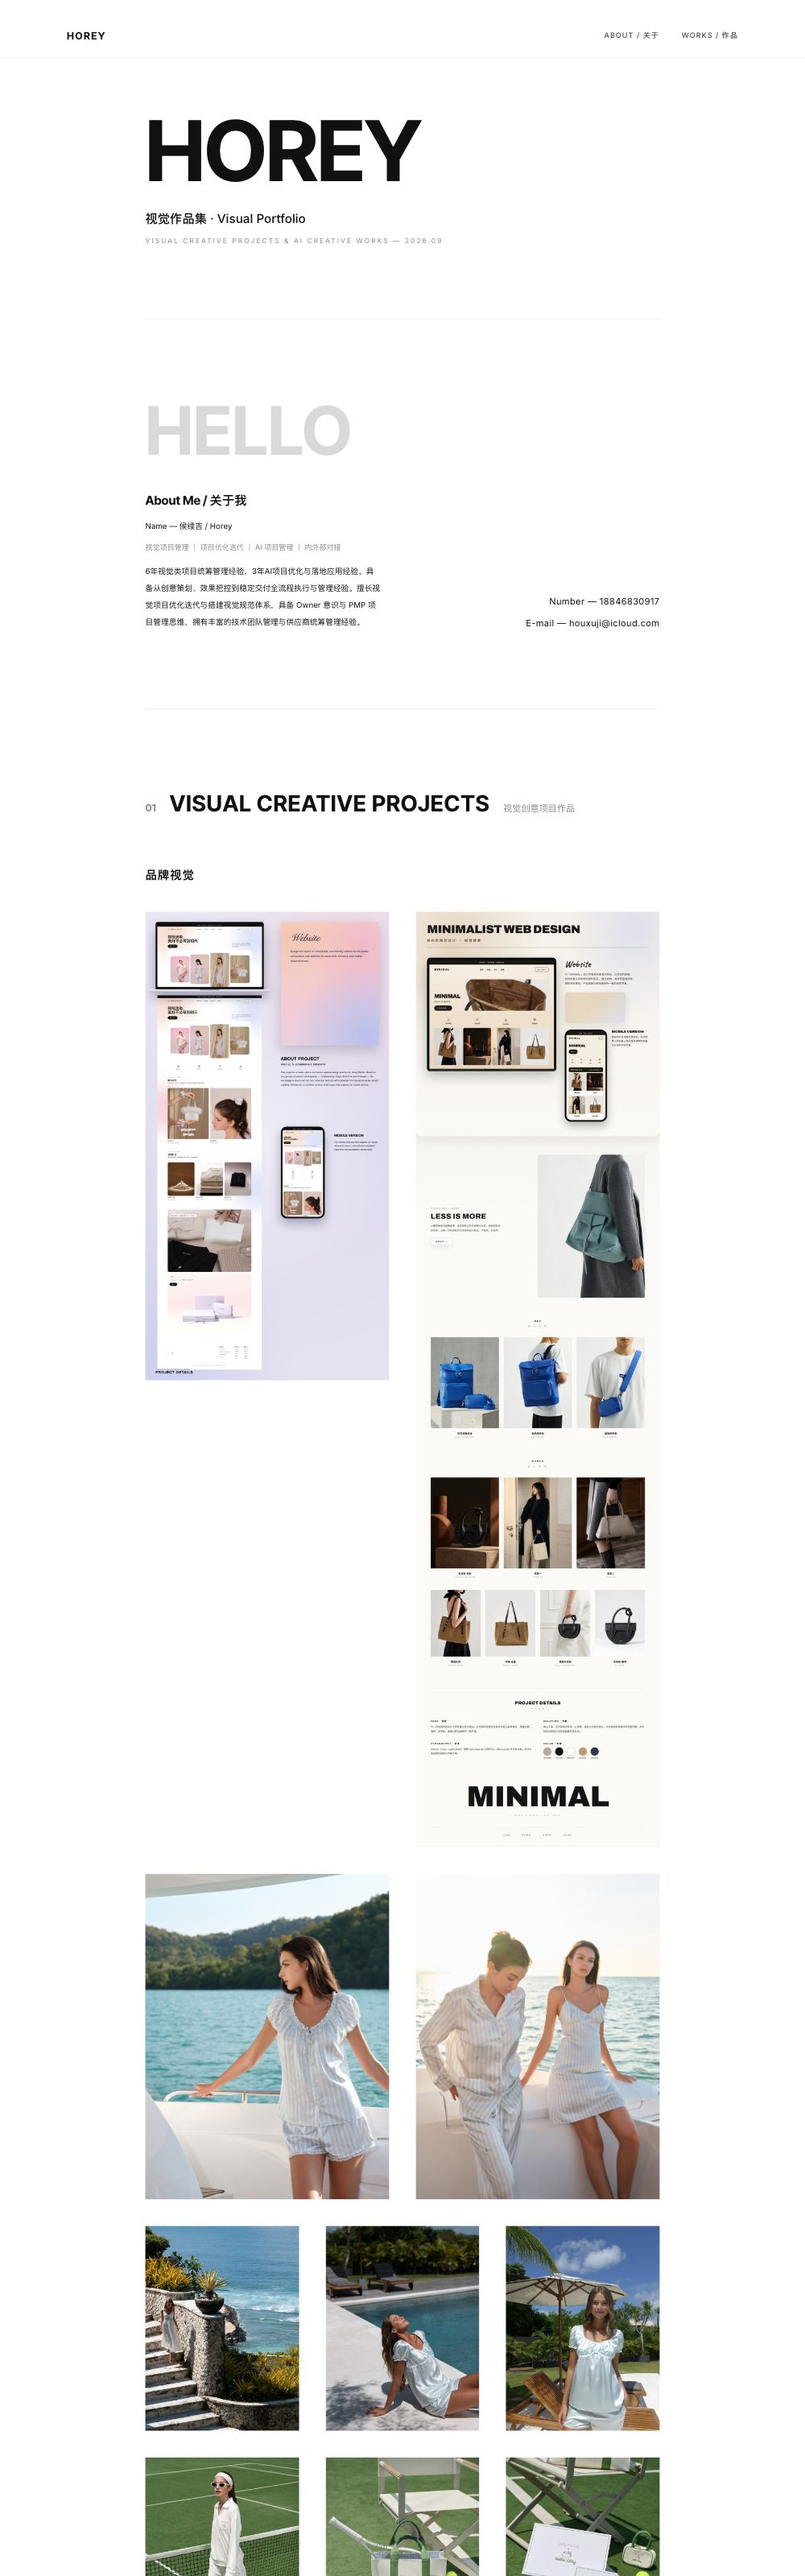
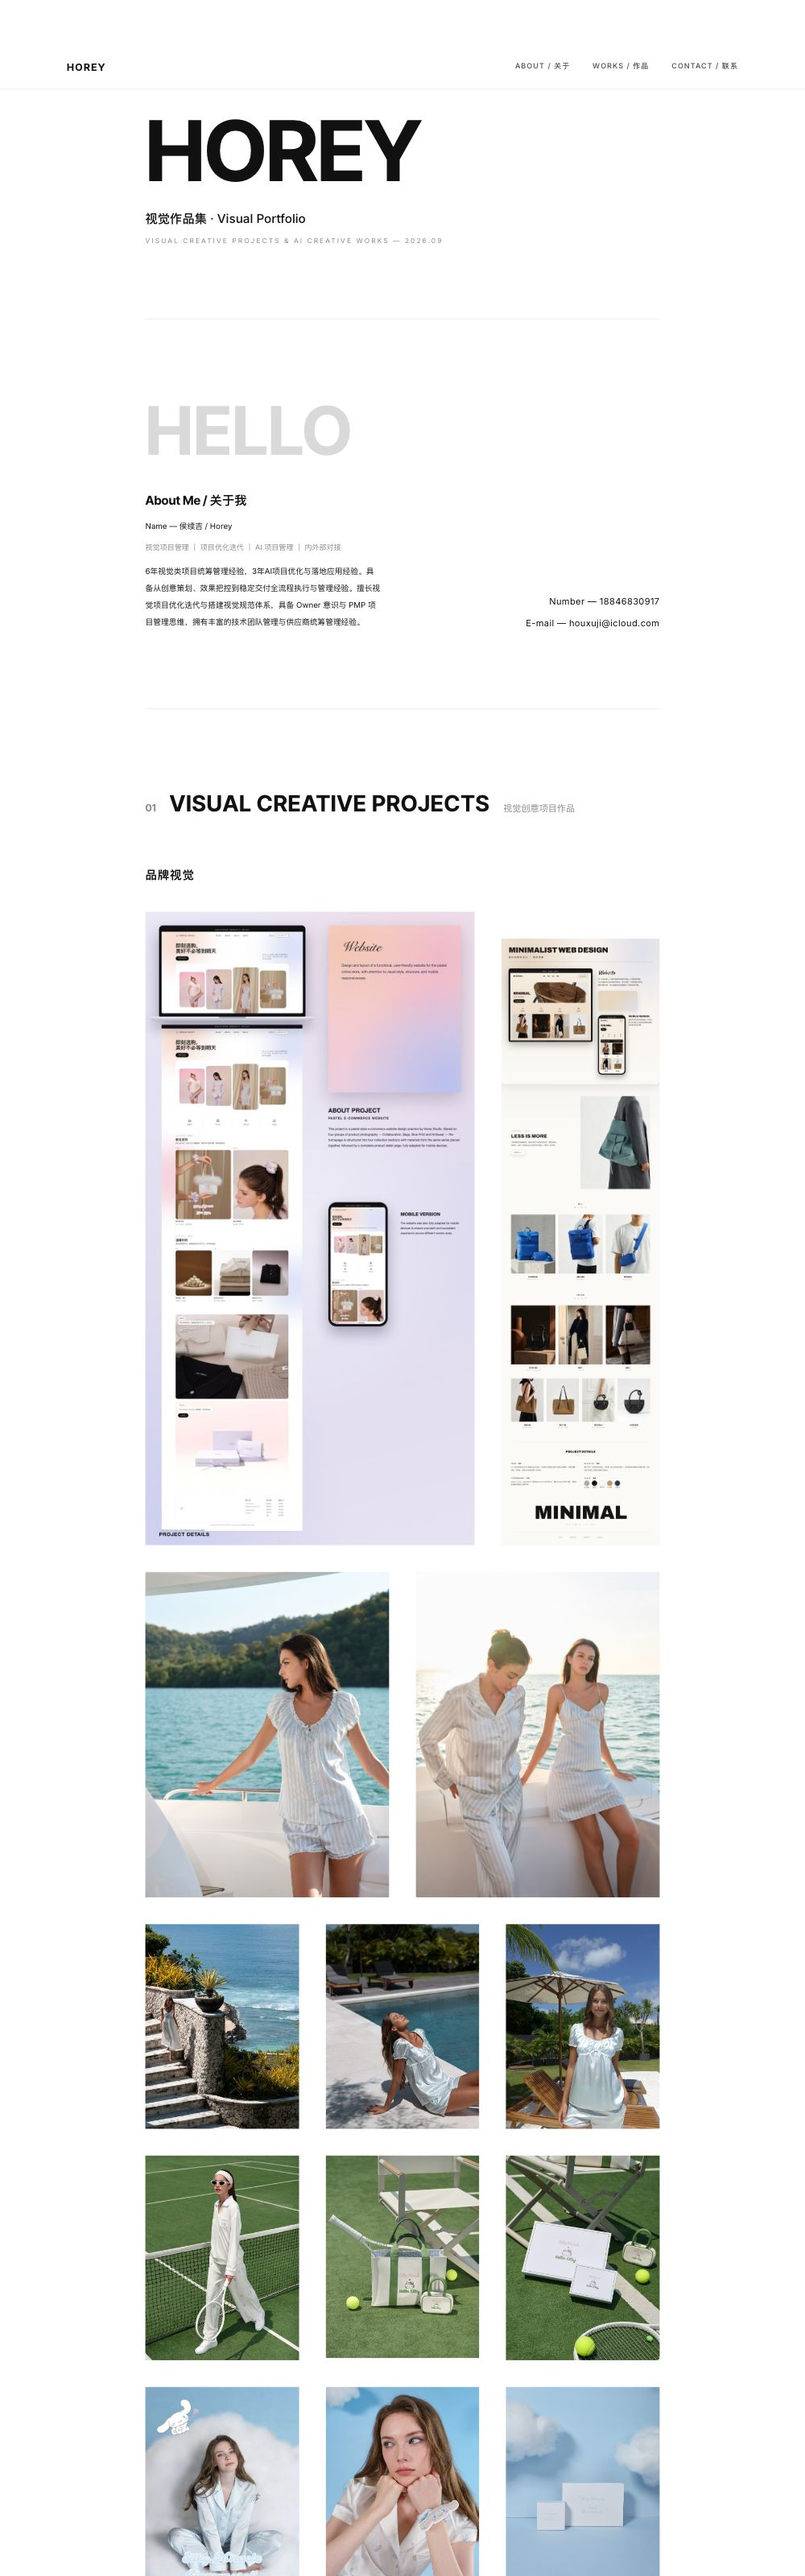
品牌视觉底部对齐/a11左小右大/SILKY移最后/footer重做CONTACT

diff --git a/index.html b/index.html
@@ -55,6 +55,11 @@ a{color:inherit;text-decoration:none}
 .r-center{justify-content:center}
 .r-center .it{flex:0 0 460px;max-width:100%}
 .r-1-1 .it{flex:1 1 calc(50% - var(--row-gap)/2)}
+.r-1-2 .it:first-child{flex:1 1 calc(33.33% - var(--row-gap))}
+.r-1-2 .it:last-child{flex:1 1 calc(66.66% - var(--row-gap))}
+.r-brand{align-items:flex-end}
+.r-brand .it:first-child{flex:1 1 calc(66.66% - var(--row-gap))}
+.r-brand .it:last-child{flex:1 1 calc(33.33% - var(--row-gap))}
 .r-3 .it{flex:1 1 calc(33.33% - var(--row-gap)*2/3)}
 .r-4 .it{flex:1 1 calc(25% - var(--row-gap)*3/4)}
 .cap{font-size:11px;color:var(--grey);letter-spacing:2px;display:flex;justify-content:space-between;gap:16px;margin-top:14px;text-transform:uppercase}
@@ -72,8 +77,14 @@ a{color:inherit;text-decoration:none}
 .body{font-size:16px;line-height:30px}
 .about-r p{font-size:16px;letter-spacing:.5px}
 .sig{font-size:12px;color:var(--grey);letter-spacing:2px}
-.foot{border-top:1px solid var(--line);padding:clamp(40px,5vw,64px) 0;display:flex;justify-content:space-between;gap:16px;flex-wrap:wrap}
-.foot p{font-size:12px;color:var(--grey);letter-spacing:2px}
+.foot{border-top:1px solid var(--line);padding-top:var(--sec-py);padding-bottom:48px;padding-left:0;padding-right:0}
+.foot h2{font-family:var(--display);font-weight:700;font-size:clamp(40px,7vw,64px);letter-spacing:0}
+.foot-row{display:flex;justify-content:flex-start;gap:48px;flex-wrap:wrap;margin-top:48px;font-size:20px;font-weight:500}
+.c-item{display:inline-flex;align-items:center;gap:10px}
+.c-item svg{width:22px;height:22px;stroke:currentColor;fill:none;stroke-width:1.8}
+.c-group{display:inline-flex;gap:48px;flex-wrap:wrap}
+.c-item .note{color:var(--grey);font-size:16px}
+.foot-base{display:flex;justify-content:space-between;gap:24px;flex-wrap:wrap;margin-top:72px;padding-top:20px;border-top:1px solid var(--line);font-size:12px;color:var(--grey);letter-spacing:1px}
 
 @media(max-width:899px){
   :root{--row-gap:14px;--sec-py:56px;--pad-x:clamp(20px,5.5vw,28px)}
@@ -94,6 +105,7 @@ a{color:inherit;text-decoration:none}
     <div class="navlinks">
       <a href="#about">ABOUT / 关于</a>
       <a href="#works">WORKS / 作品</a>
+      <a href="#contact">CONTACT / 联系</a>
     </div>
   </div>
 </nav>
@@ -131,7 +143,7 @@ a{color:inherit;text-decoration:none}
   <div class="rows">
 
     <div class="sub-hd"><span class="cn">品牌视觉</span></div>
-    <div class="row r-1-1">
+    <div class="row r-brand">
       <div class="it"><img src="assets/img/p-1-1.jpg" alt="品牌视觉 01" loading="eager"></div>
       <div class="it"><img src="assets/img/p-2-1.jpg" alt="品牌视觉 02" loading="eager"></div>
     </div>
@@ -232,12 +244,7 @@ a{color:inherit;text-decoration:none}
     </div>
 
     <div class="sub-hd"><span class="cn">过往项目迭代过程展示</span><span class="en">Iteration Process</span></div>
-    <div class="row r-1-1">
-      <div class="it"><img src="assets/img/a-10-1.jpg" alt="AI 创意 10-1" loading="eager"></div>
-      <div class="it"><img src="assets/img/a-10-2.jpg" alt="AI 创意 10-2" loading="eager"></div>
-    </div>
-
-        <div class="row r-1-1">
+        <div class="row r-1-2">
       <div class="it"><img src="assets/img/a-11-1.jpg" alt="AI 创意 11-1" loading="eager"></div>
       <div class="it"><img src="assets/img/a-11-2.jpg" alt="AI 创意 11-2" loading="eager"></div>
     </div>
@@ -247,12 +254,36 @@ a{color:inherit;text-decoration:none}
       <div class="it"><img src="assets/img/a-12-2.jpg" alt="AI 创意 12-2" loading="eager"></div>
     </div>
 
+    <div class="row r-1-1">
+      <div class="it"><img src="assets/img/a-10-1.jpg" alt="AI 创意 10-1" loading="eager"></div>
+      <div class="it"><img src="assets/img/a-10-2.jpg" alt="AI 创意 10-2" loading="eager"></div>
+    </div>
+
   </div>
 </section>
 
-<footer class="foot wrap">
-  <p>© 2026 HOREY</p>
-  <p>CREATED & DESIGNED BY HOREY</p>
+<footer class="foot wrap" id="contact">
+  <h2>CONTACT — 联系</h2>
+  <div class="foot-row">
+    <a class="c-item" href="mailto:houxuji@icloud.com">
+      <svg viewBox="0 0 24 24" aria-hidden="true"><rect x="3" y="5" width="18" height="14" rx="2"/><path d="m3 7 9 6 9-6"/></svg>
+      houxuji@icloud.com
+    </a>
+    <div class="c-group">
+      <a class="c-item" href="tel:18846830917">
+        <svg viewBox="0 0 24 24" aria-hidden="true"><path d="M22 16.9v3a2 2 0 0 1-2.2 2 19.8 19.8 0 0 1-8.6-3.1 19.5 19.5 0 0 1-6-6A19.8 19.8 0 0 1 2.1 4.2 2 2 0 0 1 4.1 2h3a2 2 0 0 1 2 1.7c.1 1 .4 2 .7 2.9a2 2 0 0 1-.5 2.1L8.1 9.9a16 16 0 0 0 6 6l1.2-1.2a2 2 0 0 1 2.1-.5c.9.3 1.9.6 2.9.7a2 2 0 0 1 1.7 2z"/></svg>
+        18846830917
+      </a>
+      <span class="c-item">
+        <svg viewBox="0 0 24 24" aria-hidden="true"><path d="M8.8 4C5.6 4 3 6.2 3 8.9c0 1.6.9 3 2.3 3.9L4.8 15.4l2.6-1.2c.4.1.9.2 1.4.2"/><path d="M15.3 9.3c2.6 0 4.7 1.7 4.7 3.9s-2.1 3.9-4.7 3.9c-.4 0-.8 0-1.2-.1l-2.2 1 .5-1.9c-1.1-.7-1.8-1.8-1.8-2.9 0-2.2 2.1-3.9 4.7-3.9z"/><circle cx="6.9" cy="8.7" r="0.5"/><circle cx="10.7" cy="8.7" r="0.5"/><circle cx="13.9" cy="13" r="0.5"/><circle cx="16.9" cy="13" r="0.5"/></svg>
+        <span class="note">微信同号</span>
+      </span>
+    </div>
+  </div>
+  <div class="foot-base">
+    <span>Created and Designed by Horey</span>
+    <span>© 2026 HOREY STUDIO</span>
+  </div>
 </footer>
 
 <script>
